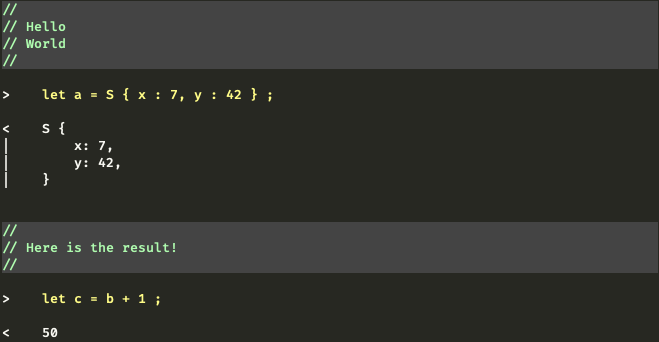
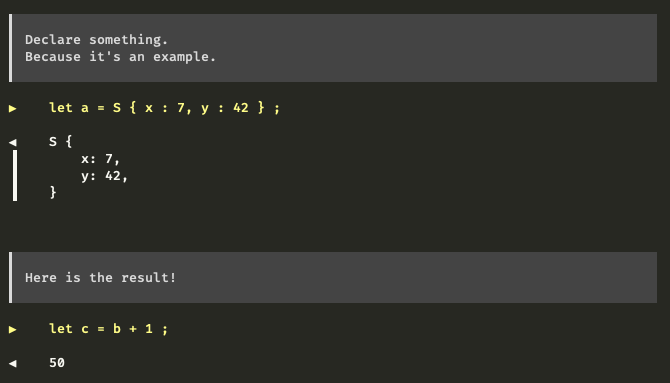
feat: Improve style and output.

diff --git a/src/lib.rs b/src/lib.rs
@@ -47,10 +47,11 @@ pub fn code_tour(
                                         if let Some(TokenTree::Literal(literal)) =
                                             attribute.tokens.clone().into_iter().nth(1)
                                         {
-                                            let literal_string = literal.to_string();
+                                            let literal_string =
+                                                literal.to_string().replace("\\\'", "'");
 
                                             Some(format!(
-                                                "//{:<80}",
+                                                "▍{:<80}",
                                                 &literal_string[1..literal_string.len() - 1]
                                             ))
                                         } else {
@@ -62,11 +63,11 @@ pub fn code_tour(
                                 })
                                 .map(format_comment)
                                 .collect::<Vec<String>>()
-                                .join("\n");
+                                .join("\n ");
 
-                            let empty_line = format_comment(format!("//{:<80}", " "));
+                            let empty_line = format_comment(format!("▍{:<80}", " "));
                             let formatted_comment = format!(
-                                "{empty}\n{comment}\n{empty}\n",
+                                "\n {empty}\n {comment}\n {empty}\n",
                                 empty = empty_line,
                                 comment = formatted_comment
                             );
@@ -82,7 +83,7 @@ pub fn code_tour(
                             let statement =
                                 format_statement(quote!(#local_without_attrs).to_string());
 
-                            statements.push(println(quote!(">    {}\n", #statement)));
+                            statements.push(println(quote!(" {}\n", #statement)));
                         }
 
                         // Write the original statement, without the documentation.
@@ -96,8 +97,8 @@ pub fn code_tour(
                                 let ident = &local_pat.ident;
 
                                 quote!(
-                                    "<    {}\n\n",
-                                    format!("{:#?}", #ident).replace("\n", "\n|    ")
+                                    " ◀    {}\n\n",
+                                    format!("{:#?}", #ident).replace("\n", "\n ▐    ")
                                 )
                             }));
                         }
@@ -159,7 +160,7 @@ fn format_comment(comment: String) -> String {
     #[cfg(feature = "colours")]
     {
         Style::new()
-            .fg(Colour::Fixed(157))
+            .fg(Colour::Fixed(253))
             .on(Colour::Fixed(238))
             .paint(comment)
             .to_string()
@@ -176,7 +177,7 @@ fn format_statement(statement: String) -> String {
     {
         Style::new()
             .fg(Colour::Fixed(228))
-            .paint(statement)
+            .paint(format!("▶    {}", statement))
             .to_string()
     }
 
